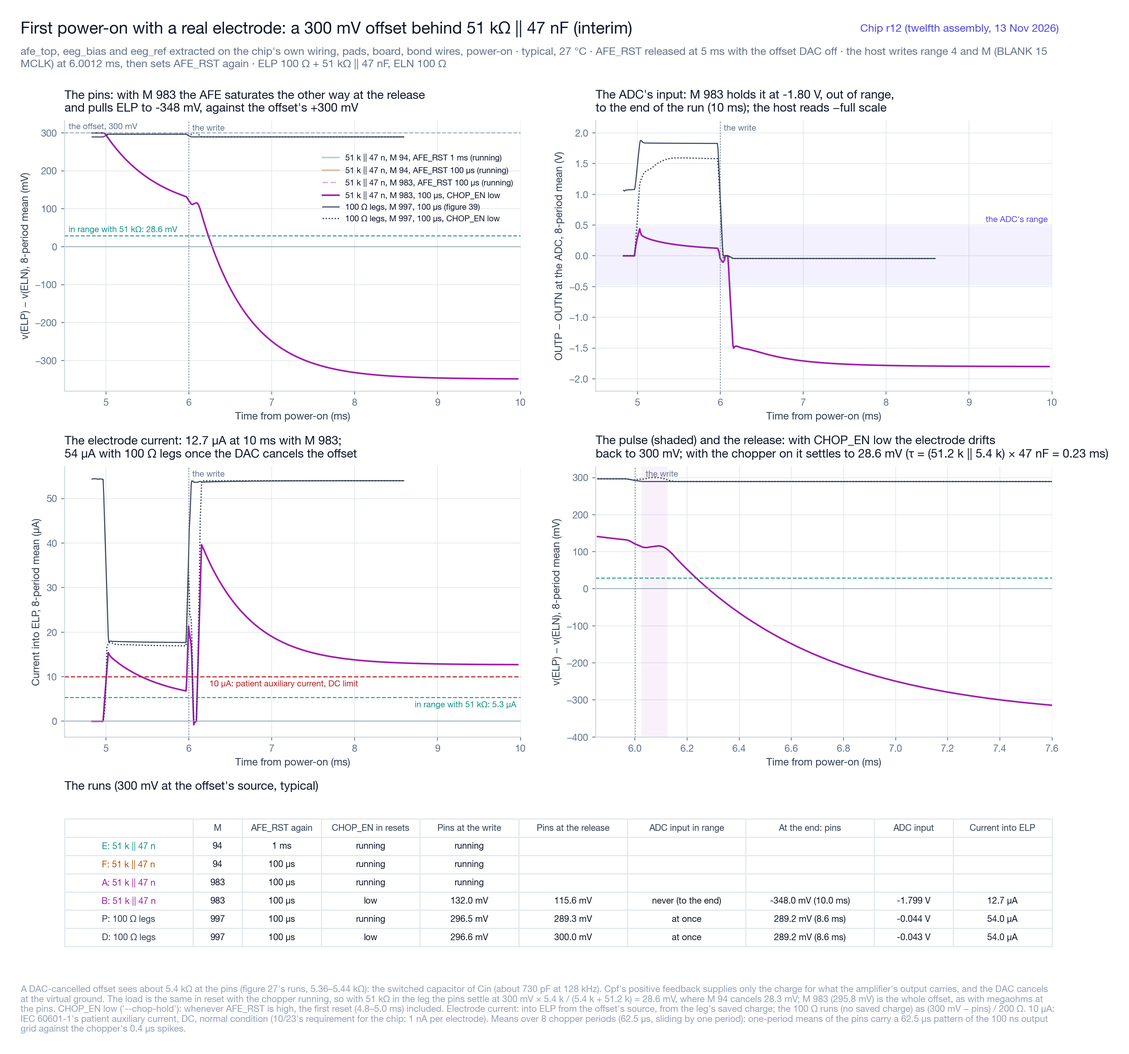
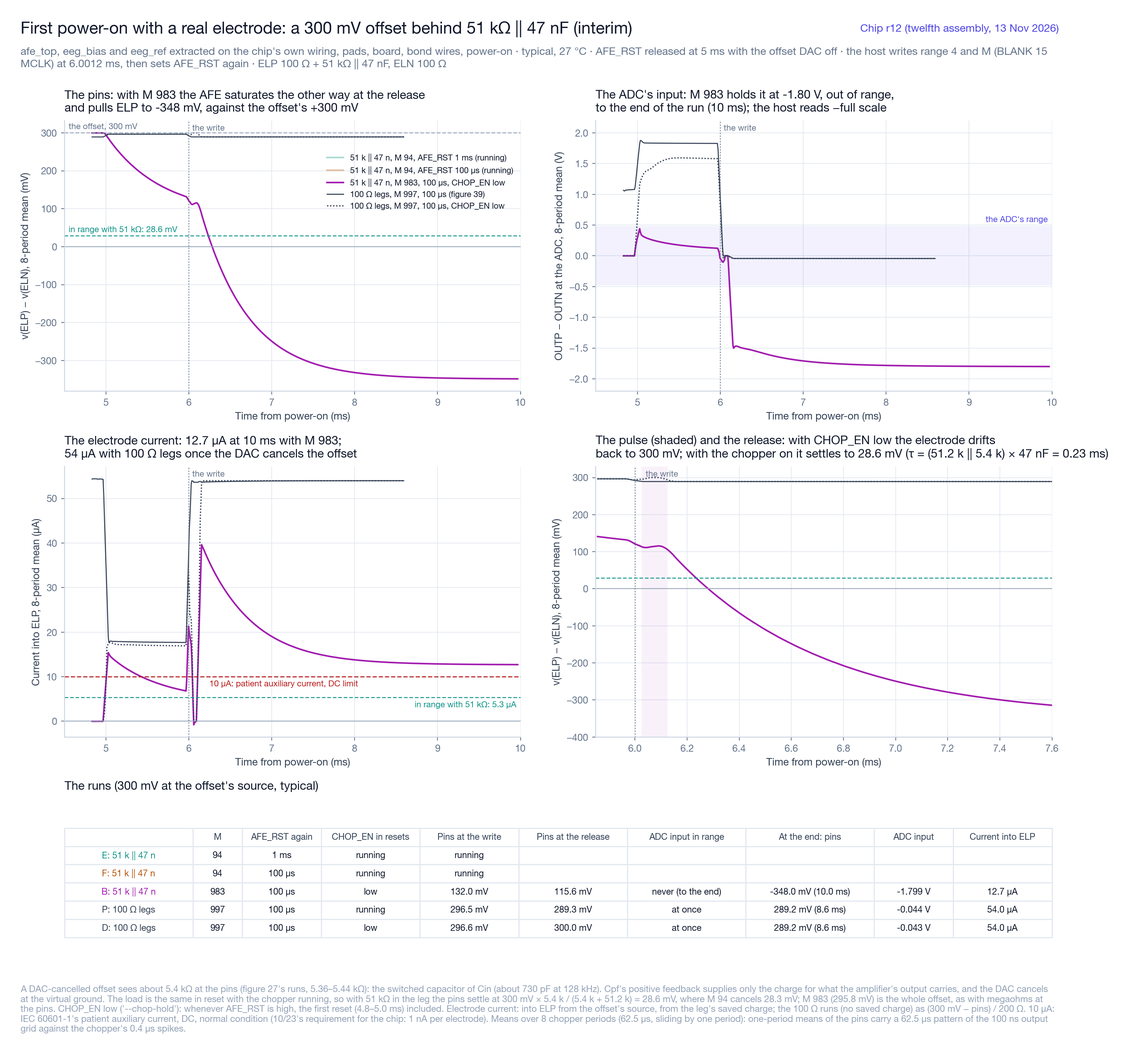
GF180 D5、D7、F2、F4（11/18）：今回 rev の構成決定。AVDD は調整できるレギュレータでダイごとに合わせると決めた（ユーザーの判断。ss のダイは 3.45 V、ほかは 3.40〜3.43 V。試験で正弦波の THD を見ながら BOOST_TRIM と一緒に決める。固定の 3.43 V ±0.5 % にはしない）。チップは r12 のままで、DAC で打ち消したオフセットの電流のためにも直さない（朝の返事「go」）。記録表 D5 を済みにした。typical の BOOST_TRIM 4/2 は、ダイごとに決めるときの出発点とした。電極込みの起動の E、F は、6 時

Changed region(s): [[0.0621, 0.779, 0.9322, 0.9037], [0.2797, 0.1246, 0.4661, 0.2181]]

diff --git a/first_tapeout_eeg/gf180/tapeout/viz/electrode_start_fig.py b/first_tapeout_eeg/gf180/tapeout/viz/electrode_start_fig.py
@@ -48,7 +48,6 @@ ZP = "_zp100+51k_47n"
 RUNS = [
     ("E", f"_m94_afe5ms_ib3{ZP}_sat6ms_rst1000us", "51 k || 47 n, M 94, AFE_RST 1 ms", TEAL, "-", 1.4),
     ("F", f"_m94_afe5ms_ib3{ZP}_sat6ms_rst100us", "51 k || 47 n, M 94, AFE_RST 100 µs", AMBER, "-", 1.4),
-    ("A", f"_m983_afe5ms_ib3{ZP}_sat6ms_rst100us", "51 k || 47 n, M 983, AFE_RST 100 µs", PLUM, (0, (4, 2)), 1.2),
     ("B", f"_m983_afe5ms_ib3{ZP}_sat6ms_rst100us_chophold", "51 k || 47 n, M 983, 100 µs, CHOP_EN low", PLUM, "-", 1.4),
     ("P", "_m997_afe5ms_ib3_sat6ms_rst100us", "100 Ω legs, M 997, 100 µs (figure 39)", INK2, "-", 0.9),
     ("D", "_m997_afe5ms_ib3_sat6ms_rst100us_chophold", "100 Ω legs, M 997, 100 µs, CHOP_EN low", INK2, (0, (1, 1.4)), 1.1),
@@ -125,7 +124,7 @@ def main():
     have = [k for k in runs if runs[k][0] is not None]
     S = {k: series(*runs[k]) for k in have}
     F = {k: facts(*runs[k], S[k]) for k in have}
-    interim = len(have) < len(RUNS) or ("A" in F and F["A"]["tend"] < 19.9e-3)
+    interim = len(have) < len(RUNS)
     for k in have:
         f = F[k]
         bk = "never" if f["back"] is None else f"{f['back'] * 1e3:.3f} ms"

diff --git a/first_tapeout_eeg/documentation/gf180_tapeout_tracker.md b/first_tapeout_eeg/documentation/gf180_tapeout_tracker.md
@@ -101,9 +101,9 @@
 | D2 | L1：AFE の周期雑音と歪み、ADC ブロックの特性。AFE は雑音（静止解析の高調波和）、静的な歪み、チョッパ動作の歪み（ブランキング込み）を評価済み。ADC はトランジスタ DAC2 のループで、1 kHz の歪みが 8 ms の分解能（約 −110 dBc）で見えないことを確認。長い実行（500 Hz、`gf180/tapeout/sim/adc_loop/analyze_tone.py`）で見えた HD5（−107〜−115 dBc）は、OTA を理想にしたデッキ（`make_deck.py --ota1 ideal`、16 ms）でも −111 dBc で、周りの bin も同じ高さだった。2.5 kHz 付近の量子化雑音の床で、歪みではない（10/22）。11/15：抽出した OTA の静的な伝達から、フルスケールでの OTA の歪みは −150 dBc より小さい（図 36）。量子化器は単体と全体を確認済み（B4）。ADC ブロックのコーナーは B2 | 11/14 | ✅ |
 | D3 | L2：較正済み行動モデルで受入行列（4 s／20 s、PVT、ミスマッチ）。10/28〜：抽出したブロックのモンテカルロ（30 種と角 5 つ、`adc_block_mc.py`）を行動モデル（`adc_beh_mc.py`、4 s、ループの遅れはトランジスタのループに合わせた 0.22 クロック）に入れ、ダイごとの SNDR を出している。11/14：r11 の抽出（RIN、DAC1、R21 が ppolyf_u。r12 も同じブロック）で回し直し、30 ダイで 114.8〜153.8 dB、角 11 通りで 122.0〜123.5 dB。どれも暴走せず、16.5 bit に要る 101.1 dB を 13.7 dB 以上上回る。OTA1 の利得のばらつきは、負荷（ppolyf_u）とバイアス（ppolyf_u_1k）が別々にばらつくので 0.09 → 0.46 dB に増えたが、最悪 69.26 dB でモデルの 68.7 dB より高い（`gf180_realistic_eval_20261028.md` の「ADC」、図 29） | 11/14 | ▶（量子化・DAC 誤差、工程とミスマッチは済み） |
 | D4 | L3：AFE＋ADC＋DAC セル＋量子化器の短窓トランジスタ E2E。10/22：`gf180/tapeout/sim/e2e/e2e_deck.py`（AFE とそのクロックドライバ、ADC ブロック、バイアス生成、基準電圧のフィルタ。typical）で 70 µs を回した。16 kHz・フルスケールの正弦波で、AFE の出力（チョッパ周期の平均）の利得 268.9（周期平均の sinc を除くと約 276）、ADC まで含めた全体 282、量子化の残差 0.031（DAC の段の単位、ADC 単体と同じ）、AVDD 27.2 mA。窓が 16 kHz の 0.8 周期しかないので、利得の精度は数 %。AFE_RST を解除した瞬間の入力が Cin に残る起動時の現象を見つけた（AFE の文書）。1 本 45〜75 分。10/24：寄生込みの E2E（`gf180/tapeout/pex/pex_e2e.py`、`gf180_pex_20261023.md` の「寄生込みの E2E」、図 `documentation/figures/gf180/r9_20261029/e2e_pex/gf180_e2e_pex_r9_*.png`）。AFE と ADC を最終のチップ（B7、B4 の直し込み）の抽出に差し替え、Ch-A を横切る OUTP／OUTN のチップの配線（74／70 fF、片側 35.6 Ω）も足して、回路図と比べた。AFE の利得 291.4（回路図 291.5、配線込み 290.9）、全体 301.2〜301.9、AVDD 27.2 mA、O2 −33〜+34 mV で同等。量子化の残差は寄生込みで約 2 倍（0.017 → 0.032、帯域の外）。リセットの解除のあとの相 A／B の不釣り合い（寄生込みで 19 mV、時定数 143 µs で抜ける）で、ADC の入力の瞬時値は最大 297 mV（フルスケール 300 mV の内側）。仕様を外れるものはない。10/25：4 回目のチップ（電極の DC 電流の直しのあと）の抽出で回し直した。AFE の利得 291.3（配線込み 290.8）、全体 301.5〜302.5、量子化の残差 0.028／0.021。相 A／B の不釣り合いは 19 → −2.6 mV（その大きさは入力チョッパのクロックの結合の WP／WN の差で決まっていた）、ADC の入力の瞬時値は ±287 mV で回路図と同じ。10/26：5 回目のチップ（WN の配線抵抗の直しのあと）でも回し直し、ほぼ同じ（相 A／B −2.7 mV、量子化の残差 0.026／0.021、ADC の入力 ±287 mV）。10/26 夜：6 回目のチップ（Magic DRC の直しのあと）でも回し直し、ほぼ同じ（AFE の利得 291.3、相 A／B −2.7 mV、量子化の残差 0.025／0.021、ADC の入力 ±287 mV）。10/30：9 回目のチップ（ADC は C1・C2 を 1.25 倍にした 7 回目の抽出、AFE は 6 回目と同じ）で回し直した（`runs/e2e_r7/`。d4 と sch も今の回路図で）：AFE の利得 291.3（配線込み 290.8）、全体 299.8〜300.4、量子化の残差 0.016／0.017（回路図 0.017。寄生込みで増えなくなった）、相 A／B −2.7 mV、ADC の入力 ±287 mV。11/9：10 回目のチップ（量子化器のラッチのグラウンドを AVSS につないだ ADC の抽出）で 4 通りとも回し直し、すべて同じ値（`runs/e2e_r10/`。抽出は基板を AVSS とするので、前からラッチは AVSS につながった形で計算されていた）。11/13：11 回目と 12 回目の抽出でも回した（`runs/e2e_r11/`、`runs/e2e_r12/`）。寄生込みは AFE の利得 291.4、全体 299.8／300.4、残差 0.019／0.019。チップの配線込み（pexchip。OUTP／OUTN が約 20 Ω 長くなった）は 290.6、299.9／299.5、0.018／0.014 で、r10 と同じ大きさ。残り：コーナー | 11/17 | ▶（typical ✅、寄生込み ✅） |
-| D5 | 今回 rev の構成決定レビュー。判断が要るもの：ADC のポリ抵抗のフリッカ（11/12、D7、図 33。PDK の大きさを今の電流でとると、フルスケールで 16.26 bit）。11/12 に直す案を調べた（`gf180_realistic_eval_20261028.md` の「RIN と DAC1 を ppolyf_u に替える案」、図 `plan_20261112`、設計はまだ変えていない）：1 単位（300 kΩ）を幅 0.8 µm の ppolyf_u 2 本の直列にすると、雑音 0.069 倍で、フルスケールでも 16.57 bit。抵抗の間を 0.4 µm にし、OTA1 と第 2 段を東へ 28.9 µm ずらせば ADC に収まる（外形は同じ）。角は今と同じ ±20 %、温度による変化は約 1/10。DAC1 は偶成分が要求の 1/90 以下のまま、出力の電位差への感度が 1.59 倍（ループの HD3 約 −129 dBc）、BRK の時間は同じ。R21 も替えるとよい。替えるなら ADC のレイアウト、DRC／LVS、precheck、PEX、DAC1 とループの確認、通し（約 54 時間）をやり直す（1 週間ほど）。替えないなら、フルスケールの 16.26 bit を予測として明記し、チップで測る。勧めは替えるほう（ENOB はフルスケールに近い正弦波で測るため）。**11/12 にユーザーが替えると決めた**（RIN と DAC1、勧めのとおり R21 も ppolyf_u に。11 回目のチップで作業する。走っている 10 回目の通しは r10 の抽出だけを読むので、止めずに進める）。11/12〜13：11 回目のチップで替えた（E4）。作ったままの抵抗でフリッカを計算し直し、フルスケールで 0.29 nVrms、16.57 bit（入力が小さいときと同じ。`runs/adc_flicker_r11`）。11/13：外から指摘のあった、敏感な網の下を通るクロックとデータの線を、ユーザーの判断で 12 回目で直した（E3、E4）。AFE の通路の覆いで電極の DC 電流が ±1.56 → ±1.71 nA になるが、ユーザーの判断で覆いは残した。**発注の候補は r12**（E8） | 11/18 | ▶ |
+| D5 | 今回 rev の構成決定レビュー。判断が要るもの：ADC のポリ抵抗のフリッカ（11/12、D7、図 33。PDK の大きさを今の電流でとると、フルスケールで 16.26 bit）。11/12 に直す案を調べた（`gf180_realistic_eval_20261028.md` の「RIN と DAC1 を ppolyf_u に替える案」、図 `plan_20261112`、設計はまだ変えていない）：1 単位（300 kΩ）を幅 0.8 µm の ppolyf_u 2 本の直列にすると、雑音 0.069 倍で、フルスケールでも 16.57 bit。抵抗の間を 0.4 µm にし、OTA1 と第 2 段を東へ 28.9 µm ずらせば ADC に収まる（外形は同じ）。角は今と同じ ±20 %、温度による変化は約 1/10。DAC1 は偶成分が要求の 1/90 以下のまま、出力の電位差への感度が 1.59 倍（ループの HD3 約 −129 dBc）、BRK の時間は同じ。R21 も替えるとよい。替えるなら ADC のレイアウト、DRC／LVS、precheck、PEX、DAC1 とループの確認、通し（約 54 時間）をやり直す（1 週間ほど）。替えないなら、フルスケールの 16.26 bit を予測として明記し、チップで測る。勧めは替えるほう（ENOB はフルスケールに近い正弦波で測るため）。**11/12 にユーザーが替えると決めた**（RIN と DAC1、勧めのとおり R21 も ppolyf_u に。11 回目のチップで作業する。走っている 10 回目の通しは r10 の抽出だけを読むので、止めずに進める）。11/12〜13：11 回目のチップで替えた（E4）。作ったままの抵抗でフリッカを計算し直し、フルスケールで 0.29 nVrms、16.57 bit（入力が小さいときと同じ。`runs/adc_flicker_r11`）。11/13：外から指摘のあった、敏感な網の下を通るクロックとデータの線を、ユーザーの判断で 12 回目で直した（E3、E4）。AFE の通路の覆いで電極の DC 電流が ±1.56 → ±1.71 nA になるが、ユーザーの判断で覆いは残した。**発注の候補は r12**（E8）。**11/18 の構成決定（ユーザーの判断）**：チップは r12 のまま。AVDD は調整できるレギュレータでダイごとに合わせる（F2）。DAC で打ち消したオフセットの電流のためにチップは直さず、限界として記録する（D7、勧めに対する返事「go」） | 11/18 | ✅ |
 | D6 | L4：重要ブロックの PEX 確認（チョッパの寄生結合、AFE 入力節点、積分器・DAC）。10/23：magic で寄生容量を抽出し（ネット名は KLayout の LVS の結果で回路図に対応づけ、MIM の基板容量は下の板へ補正）、入力の信号経路の配線抵抗は KLayout の R 抽出で求めた。AFE、ADC のループ、DAC1、OTA1 のチョッパを、回路図・抽出した素子だけ・寄生込みの 3 つで比べた（`gf180/tapeout/pex/`、`documentation/gf180_pex_20261023.md`）。寄生容量だけなら差は小さい（AFE の雑音 4.64 → 4.70 nVrms、利得 −0.2 %、HD3 −116 dBc、ADC のループの利得・CM・電流、積分器の整定は同等）。**仕様を外れるもの 4 つ**：① 入力の信号経路の配線抵抗が片側 76／119 Ω（コアの入力対のゲート配線 72／115、Cin の下の板の網 4.0、チョッパの EP／EN 0.35）で、AFE の雑音 19.1 nVrms、約 14.8 bit。② DAC1 の偶成分 0.47〜0.69 fC（要求 0.008 fC）で SNDR 約 70 dB。③ DC 経路のスイッチの CIB2 の結合の非対称で AFE の出力に 39 mV p-p のリップル。④ 量子化器の入力の結合の非対称で判定が平均 +2.4 LSB ずれる。原因と直し方（目標値つき）は文書の「直し方」。直したあと同じ流れで確かめる。10/24：4 件をレイアウトで直し（E3、E4）、チップを組み直して抽出と比較を回し直した（文書の「直したあとの確認」）。4 件とも仕様の内側に戻った：配線抵抗は片側 0.634／0.676 Ω（チップで測定。Cin の下の Metal3 の面は Tesselation）、DAC1 の偶成分 −0.0014 fC（123 dB）、リップル 3.62 mV p-p、量子化器の入力の結合はそろい、ループの残差 0.027。AFE の雑音は寄生込みで 4.81 nVrms、配線抵抗込みで 5.05 nVrms、総残差 6.05〜6.07 nVrms（16.45〜16.46 bit）で、16.50 bit に 0.04〜0.05 bit 足りない（片側 0.35 Ω まで下げるには AFE の配置の変更が要り、今回 rev はこの形）。抽出の補正を直した：magic が MIM の上の板に付ける、下の導体（Cin の下の Metal3 の面など）への容量を下の板へ移す（`pex.py` の `mim_shield`。AFE で WP–INP の見かけの 21.3 pF を消した）。**新しく 1 件が仕様を外れた**（直し方 1、2 の副作用）：INP と増幅器の出力 ONI／OPI の結合（P 側だけ 617／526 fF。コアの上端で INP を Cin のバスへつなぐ Metal5 の下を ONI／OPI の Metal4 が通る）で、フルスケールの HD2 −70 dBc（仕様 −111 dBc 以下）、利得 −2 % 前後。抽出からこの結合だけを除くと HD2 −114 dBc に戻る。E3 で直した（幹線を移して遮蔽、出力部の P 側を N 側の鏡映に。4 つの結合は 9 fF 以下、HD2〜HD5 −113.8／−117.2／−120.9／−137.7 dBc、利得は回路図に戻った）。リップルは 4.00 mV p-p（目標の境、クロックの線と出力の結合の P／N の差。帯域の外なので受け入れ）。チップを組み直した（E7）。2 回目までの歪みの確認は 2 kHz だけで、帯域内の低い周波数の HD2（DC 経路が 1 本で −87 dBc）は B7 の確認で見つかり、DC 経路を対称にして直した（0cb0fff4）。B7 と B4 の直しを入れた最終のチップ（3 回目、10/24）で確かめ直した：帯域内のフルスケールの HD2〜HD5 −132.7／−120.4／−160.9／−144.5 dBc、リップル 2.02 mV p-p、AFE の雑音 4.81 nVrms（配線抵抗込み 5.05）、配線抵抗は片側 0.634／0.676 Ω で変わらず。チップは DRC 違反なし、LVS 一致、穴埋めのあとの全 DRC も違反なし、precheck 通過。**10/25：信号がなくても電極に流れる DC 電流を調べて直した**（文書の「電極に流れる DC 電流（10/25）」）。3 回目の抽出の I_ELP −40.0／I_ELN +33.3 nA（`viz_data.py zin`）のうち、同相の −3.4 nA ずつは ngspice の GMIN による見かけ（抽出の入力 TG が PMOS M=1024・NMOS M=512 の 1 素子ずつで、接合ごとの GMIN が打ち消さない）で、実際は差動 ±36.6 nA。入力チョッパのゲートのクロックの結合が WP と WN で違い（チョッパの中のストラップの並びで WN だけが CIA／NCIA のピンの隣、ゲートの折り返しが WN の面の下、上端の WP の板、OFPH の西の線が WN の面の下）、交換器が電荷を一方の電極から他方へ運んでいた。電極の要求を 1 本あたり 1 nA 以下（1 MΩ で 1 mV）とし、1 MΩ で片側 37 mV（16.5 bit の前提の電極オフセット数 mV を外れる）なので不適合と判断して、E3 のレイアウトで直した：差動 ±1.65 nA（22 分の 1、ポンプに効く結合の差 −90.6 → +0.6 fF）、チップの配線を足して ±1.35 nA。残りはコアの INP／INN の寄生の非対称による（抽出で INP／INN を対称にすると差動 +0.5 nA）。今回 rev はこの値で受け入れる（1 MΩ で片側 1.65 mV、範囲 1 の内側）。雑音 4.811 nVrms、利得 297.89 は変わらない。副作用：チョッパの下の WN の面からゲートのレーンの通路を外したため、WN の W の配線抵抗が 0.339 → 0.570 Ω（通路を渡るのが Cin_N のバス 5 µm だけ）。配線抵抗込みの雑音 5.048 → 5.086 nVrms、総残差 6.05 → 6.08 nVrms（16.46 → 16.45 bit）。直すなら通路の上に WN の Metal5 だけを戻す（`gf180_pex_20261023.md`）。10/25 午後：可視化の図（`gf180_viz_20261024.md`）と、配線抵抗・歪み・寄生込みの E2E を 4 回目のチップで測り直した：帯域内の静的な HD2〜HD5 −165.8／−120.3／−148.9／−145.5 dBc、2 kHz −134.1／−118.2／−143.9／−141.6 dBc（仕様の内側）。10/25 夜：通路の上に WN の Metal5 を戻して直した（5 回目のチップ、E3）：WN の W 0.354 Ω、配線抵抗は両側 1.32 Ω（1.47 nVrms）、配線抵抗込みの雑音 5.049 nVrms、総残差 6.05〜6.07 nVrms（16.45〜16.46 bit、10/24 と同じ）。ポンプに効く結合の差 +0.61 → +0.80 fF、電極の DC 電流 ±1.56 nA、利得 297.89、リップル 2.37 mV p-p。10/26 朝：歪み、寄生込みの E2E、`viz_data.py` の AFE の組も 5 回目の抽出で回し直した（4 回目とほぼ同じ）：帯域内の静的な HD2〜HD5 −167.2／−120.3／−149.0／−145.5 dBc、2 kHz −134.2／−118.1／−143.0／−141.5 dBc、E2E の AFE の利得 291.3、相 A／B −2.7 mV、ADC の入力 ±287 mV。可視化の図 10、16〜24 も描き直した。10/26（6 回目、Magic DRC の直し：抵抗のコンタクトと MIM の Via4）：AFE と DAC1 を抽出し直して確かめた。雑音 4.811 nVrms（配線抵抗込み 5.050）、利得 297.89、リップル 2.37 mV p-p、電極の DC 電流 −1.55／+1.57 nA、DAC1 の偶成分 −0.00135／−0.00125 fC で 5 回目と同じ。配線抵抗の W は Cin の Via4 の分で 0.347／0.357 Ω（+3〜4 mΩ、`gf180_pex_20261023.md`）。10/26 夜：歪み（帯域内の静的な HD2〜HD5 −164.0／−120.3／−148.9／−146.0 dBc、2 kHz −133.9／−118.1／−141.4／−141.1 dBc）、寄生込みの E2E、`viz_data.py` の組、ADC のループ（利得 1.0040、残差 0.0318、判定が理想のしきい値と合うフレーム 91.2 %。3 回目の抽出からの差は 80 フレームの窓の揺れの範囲）、DAC1 の偶成分の行動モデル（123.0 dB）も 6 回目の抽出で回し直した。どれも 5 回目（ADC は 3 回目）とほぼ同じ。可視化の図は版ごとのフォルダ（`documentation/figures/gf180/r6_20261026/`）に全部描き直し、KLayout で描いたレイアウトの図 9 枚を足した。10/30：9 回目のチップ（今の版）の図を `documentation/figures/gf180/r9_20261029/` に全部描き直した。ADC は 7 回目の抽出（ループの利得 0.9974、残差 0.0202、判定 95.0 %、DAC1 の偶成分の行動モデル 123.0 dB）、AFE は 6 回目と同じ抽出、チップの配線を通す結果（雑音、入力経路の配線抵抗、起動、OUTP／OUTN の窓）は 9 回目で取り直した | 10/30 | ✅ |
-| D7 | 実際に近い条件での立ち上がりと性能（10/27〜、`gf180_realistic_eval_20261028.md`）。電源投入から（電源のランプ、`uic`）、RTL のリセットの順序、パッドリング、基板（仮定）とボンディングワイヤ、チップの配線（`pex_chipnets.py`：パッドセル、AVDD／AVSS の網とデカップリング、ブロックの間の配線と結合）、抽出した afe_top／eeg_bias／eeg_ref、モンテカルロ（工程と素子ごと。MIM と抵抗の素子ごとは仮の係数）、AVDD ±5 %（`gf180/tapeout/pex/afe_startup.py`）。雑音はチップの実際の動作点で測る（`afe_chip_noise.py`）。ADC を含めた電源投入からの通しは `e2e_startup.py`。10/28：雑音は上の予算の表のとおり（code 3 で 16.40 bit）。電極 0 V の立ち上がり（code 2、typical・±5 %・モンテカルロ 10）は、解除の 1 周期で −0.08〜−0.40 mV 振れ、7 µs 以内に −0.073 ± 0.002 mV（電極換算 −0.24 µV）に落ち着く。バイアスは電源投入から 0.91〜0.95 ms で 1 % 以内。通しのデッキは電源投入から AFE の解除後 50 µs まで回り、全体の利得 298.3。10/28〜29：AFE_IBIAS code 3 の書き込みを入れたモンテカルロ 30 と ±5 %、電極の DC オフセット、正弦波、VCM の容量 100 nF／1 µF、ADC 側を実際の条件で回した（ADC の C1・C2 を 1.25 倍にした）。10/31：9 回目のチップの配線で起動を回し直した。モンテカルロ 30 と ±5 % はすべて最後まで回り、解除後の出力は −0.075 ± 0.006 mV、0.1 mV まで 12 µs 以内、バイアスは 0.89〜0.97 ms で 1 % 以内で、6 回目と実質同じ。電極の DC オフセットは 300 mV まで打ち消せ、段の大きさは抽出のビットの重みで説明できる（どの範囲でも単調、残差の最大は範囲 1 で 153 µV、範囲 2 以上で 166 µV）。11/2：電源投入から CIC の出力までの通し（r6、r7、10 ms）が最後まで回った。有効な 3 サンプルはどれも RTL とビット一致し、電極から DATA までの利得は 306.6（r6 と r7 のサンプルの差は 7 LSB 以内）。11/8〜9：デジタル側（9 個の bi_24t、ブロックの電源電流、チップの DVDD／DVSS）を、9 回目の通しのチャンク 14 に入れて比べた（`digital_noise.py`）。リングの揺れは 18 → 59 mV p-p、ADC のデジタルの電源は 417 mV p-p。結合で AFE の出力にできる一定のずれは電極換算 0.21 nV で、DATA の約 1 LSB、計算の差（0.13 nV）と同じ大きさ。ADC の符号は 48 フレームとも一致した。この結合は MCLK に同期するので、一定のずれにしかならない。SPI の読み出しでも符号は一致し、周期ごとの差は 0.2 nV rms 以下。11/9：RAW の出力を動かす組（b3）も最後まで回った。AFE の入力の揺れは b1 の約 2 倍（同相 15.2 mV p-p、差動 16.7 µV p-p）になるが、出力の一定のずれは −0.11 nV、周期ごとの残りは 0.11 nV rms で、符号は 48 フレームとも一致した（図 31、`documentation/figures/gf180/r10_20261109/viz/`）。11/11：9 回目のチップの配線での通しも最後まで回った。有効な 3 サンプルはどれも RTL とビット一致し、7 回目より 0.064 % 大きい。差はすべて AFE の利得の差で、AFE の AVSS の持ち上がりが小さくなって AFE の電流が約 1 % 増えたため。ADC 側は 7 回目と同じだった。11/11：図 31 のデッキの ADC を 10 回目の抽出に替えて、5 本を回し直した（b2 は区切り点の近さで一度止まり、MISO を 0.125 ns ずらして回し直した）。5 本とも 48 フレームの ADC の符号が 7 回目の抽出のときと同じだった。結合の一定のずれは電極換算 0.30 nV で、計算の差（0.27 nV）と同じ大きさ。SPI の読み出しと RAW の出力でも、周期ごとの残りは 0.3 nV rms 以下。図 31 を描き直した。11/13：10 回目の通しも最後まで回った。有効な 3 サンプルはどれも RTL とビット一致し、9 回目との差は +4、−1、−3 LSB（1 本の中の続くサンプルどうしの違いと同じ大きさ）、電源と基準は 9 回目と同じ。11 回目の通しは、12 回目に替えたのでチャンク 4 で止めた。11/13：11 回目と 12 回目のチップの配線で雑音を回し直し、9 回目と 0.001 nVrms 以内で同じ（AFE_IBIAS 3 で typical 5.327 nVrms、モンテカルロ 30 の最悪 5.498 nVrms）。11/15：12 回目の起動のバッチは 50 本のうち 32 本が済み（モンテカルロ 18 本）、9 回目と同じ値（バイアス 0.91〜0.95 ms、解除から 0.1 mV まで 9 µs 以内、出力 −0.099 ± 0.006 mV、電極のオフセットの残差は出力で 0.06 mV 以内で同じ）。電源投入をプロセスの角 4 つ × AVDD ±5 % と電源の立ち上がり 10 µs〜100 ms で回し、20 本とも起動した（起動回路は AVDD 0.61〜1.03 V で切れる。図 37、`powerup_checks.py`）。基板への要求に、AVDD と外の基準を DVDD より先に上げないこと（アナログのパッドの ESD ダイオードが DVDD のリングへ向く）と、解除を電源が上がりきってから数えることを足した。11/16：12 回目の起動のバッチ 50 本と通し（71 時間）が終わった。通しの有効な 3 サンプルはどれも RTL とビット一致し、10 回目より −0.175 %（ADC の基準電圧 +0.057 %、AFE の利得 −0.116 %）。角での AFE の解除（図 38）：どの角でも動き出すが、BOOST_TRIM がリセット値 4/4 のままだと、フルスケールの HD3 が ss −97.6、sf −96.8、fs −106.1 dBc で要求（−111 dBc）に届かない。AVDD −5 % ではどのトリムでも届かない。AVDD を上げるとよくなり、3.40 V と角ごとのトリムで 5 つの角が届く。チップの窓は約 3.394〜3.456 V（図 41）。ADC は ADC の電源 3.39 V でも 3.245 V と同じに動く。ただし、typical を地図の 2/2 にすると、AVDD を上げた分だけ AFE の雑音が増える（3.45 V で 5.73 nVrms、予算で 16.47 bit。BTRIM_P を 4 以上にすれば平ら。図 42）。BTRIM_P 4 でも HD3 は届く：チップの HD3 は、typical 4/2 が 3.40 V で −117.0 dBc（2/2 の −116.8 と同じ）、リセット値の 4/4 が 3.40 V で −115.6、3.45 V で −116.4 dBc（要求に 4.6 dB 以上の余裕）。typical のトリムは 4/2 を勧める（雑音は平らで、予算は 3.45 V でも 16.56 bit。窓の上の端は ff 8/2 の約 3.460 V になる）。電極のオフセットで飽和した最初の電源投入（図 39）：書いても増幅器は出力チョッパの後ろで飽和したまま残るので、ホストは書くたびに AFE_RST を 100 µs 上げる（typical と ss で確かめた。ss では typical の M では残差が大きく、M の探索がもう 1 回要る）。パルスなしでも 300 mV は書いてから 2.82 ms で ADC の範囲に戻るが、11 ms でも出力は図 27 より入力換算約 −31 µV ずれ、入力のコモンモード（0.18 V 低い）と一緒に時定数約 47 ms で抜けていく（11/17、11 ms まで回した。パルスなら 0.5 µs で範囲に入り、2.5 ms 後に +0.7 µV）。ADC は過負荷から自分で戻る（最大 0.22 ms、図 40）。デジタル側（図 31）を 12 回目の通しのチャンク 14 で回し直した（4 本、23 時 44 分に済んだ）：48 フレームの ADC の符号はどの組でも一致し、結合の一定のずれは電極換算 0.02 nV（計算の差 0.25 nV より小さい）、SPI の読み出しは +0.42 nV、RAW の出力は +0.64 nV（周期ごとの残り 0.27 nV rms 以下）で、10 回目と同じ大きさ。リングと電源の揺れも 10 回目と同じ。図は 12 回目の 42 枚がそろい（39 は 11/17 に仕上げた）、11/17 に 43 を足した。11/17：PDK にない係数への余裕（図 43）：DAC1 の素子のばらつきを仮の係数の 8 倍にしても ENOB は変わらない（30 ダイの平均 16.60 bit）。入力抵抗の電圧係数は vc2 が約 300 ppm/V² まで 16.5 bit に届く。オフセット DAC は MIM のばらつき 4 倍まで単調で、運転中の窓の内側。チップを直す必要はない。11/17：同相の除去（CMRR）と電極の不釣り合い（`afe_startup.py` に体の同相と電極のインピーダンスを足し、`cmrr.py` で解析。図 44 は途中の版）。1 kHz で、釣り合った電極では 105.4 dB（チップ自身の分）、ELP に 51 kΩ ∥ 47 nF では 50.7 dB で、ほぼ全部が脚の電流が電極のインピーダンスを流れる分。脚 1 本から見た同相は 18.6 nS ∥ 138.5 pF（Cin を通る分 63.6 pF、入力チョッパのスイッチ 65.2 pF、パッドなど 9.7 pF。コンダクタンスのうち 6.1 nS は ngspice の既定の gmin の見かけ）。朝の見込み（−64 dB）はこの容量を落としていて、50 Hz では 54.3〜54.7 dB（100 mV pk の同相で電極換算 184〜193 µV pk）の見込み。11/18：基準（1 時 45 分に済んだ）を差し引いて当てはめ直しても同じ（105.4 dB、50.7 dB）。解除までは脚 1 本の同相が約 795 pF で、不釣り合いの 47 nF に残る電荷が時定数 2.4 ms で窓に入るので、当てはめに指数を足した。AFE_RST を上げているあいだは、チョッパが動いているとピンの差動が約 5.4 kΩ（Cin のスイッチト・キャパシタ。Cpf の打ち消しが働かない）になり、電極の DC オフセットが電極のコンデンサを充電する。51 kΩ ∥ 47 nF と 300 mV では、11/16 の手順（書くたびに 100 µs）で AFE が書いてから約 12 ms 飽和する見込み。図 39 は電極 100 Ω だったので出なかった。AFE_RST と一緒に CHOP_EN（同じ CONTROL）を下げる手順を、2 時 1 分から回して確かめている（`afe_saturation.py --zp --chop-hold`）。11/18：50 Hz の 2 本も 5 時 40 分ごろ 26 ms まで回った（1 周期）。51 kΩ ∥ 47 nF で 54.2 dB（100 mV pk の同相で電極換算 194 µV pk、フルスケールの 21 %。gmin の見かけを除くと 54.6 dB）、釣り合いで 151 dB で、見込みどおり。出力はシミュレーションのピンの差動と 0.04 % で合い（50 Hz の利得 297.58）、ほぼ全部が電極の側。脚のコンダクタンスのうち 12.2 nS は、Cin を通して見える入力のコモンモードの DC 経路（時定数 47 ms）。1 周期の当てはめでは、47 nF の指数をチップの側（脚の電流、体）にも入れると脚のアドミタンスが最大 30 % 動くので、出力とピンだけに入れた（当てはめを変えても 54.14〜54.26 dB）。CMRR のためにチップを直す必要はない。図 44 を仕上げた。11/18 の朝：DAC で打ち消した電極のオフセットには、解除のあとも約 5.4 kΩ がかかることが分かった（図 27 のランで 10〜300 mV とも 5.36〜5.44 kΩ。Cin のスイッチト・キャパシタで、Cpf は出力に出ている分しか補わない）。電極にオフセット / 5.4 kΩ（30 mV で 5.4 µA、300 mV で 54 µA）の DC 電流が流れ、10/23 の要求（電極 1 本 1 nA 以下）を DAC の 1 段（56 nA）から外れる。電極に抵抗 R_e があると、ピンに届くオフセットは 5.4 kΩ / (5.4 kΩ + R_e) 倍（51 kΩ で 300 → 28.4 mV）。未明の見立て（解除のあとは MΩ、書いてから約 12 ms 飽和）はこの点で誤り。D（電極 100 Ω、CHOP_EN を下げる）は、解除のあと入力のコモンモードがはじめから釣り合いにあり、図 27 より出力が電極換算 2.9 µV 釣り合いに近い。RTL のリセット値は変えないことを勧める。この DC 電流のために今回 rev でチップを直すことはせず、限界として記録する（11/18、朝の勧めに対する返事「go」）。B（51 kΩ ∥ 47 nF、M 983、CHOP_EN を下げる。6 時 21 分に 10 ms まで回った）：解除のときピンは 116 mV で、M 983（295.8 mV）に対して AFE は逆向きに飽和したまま残り、チップがピンを −349 mV へ引く（時定数 0.57 ms、10 ms で −348 mV、電極に 12.7 µA、ADC の入力 −1.80 V）。電極 100 Ω では同じ書き込みで解除と同時に範囲に入る。合わない M を残したまま待たないこと、パルスのあいだもチョッパを動かすことを、手順に書く（図 45、途中の版）。E、F（M 94、パルス 1 ms と 100 µs）は 6 時 12 分から、A（M 983、チョッパを動かす、20 ms まで）は 2 時 1 分から回している。残り：11/18 の構成決定（AVDD とトリム）、実際のレギュレータの PSRR | 11/18 | ▶ |
+| D7 | 実際に近い条件での立ち上がりと性能（10/27〜、`gf180_realistic_eval_20261028.md`）。電源投入から（電源のランプ、`uic`）、RTL のリセットの順序、パッドリング、基板（仮定）とボンディングワイヤ、チップの配線（`pex_chipnets.py`：パッドセル、AVDD／AVSS の網とデカップリング、ブロックの間の配線と結合）、抽出した afe_top／eeg_bias／eeg_ref、モンテカルロ（工程と素子ごと。MIM と抵抗の素子ごとは仮の係数）、AVDD ±5 %（`gf180/tapeout/pex/afe_startup.py`）。雑音はチップの実際の動作点で測る（`afe_chip_noise.py`）。ADC を含めた電源投入からの通しは `e2e_startup.py`。10/28：雑音は上の予算の表のとおり（code 3 で 16.40 bit）。電極 0 V の立ち上がり（code 2、typical・±5 %・モンテカルロ 10）は、解除の 1 周期で −0.08〜−0.40 mV 振れ、7 µs 以内に −0.073 ± 0.002 mV（電極換算 −0.24 µV）に落ち着く。バイアスは電源投入から 0.91〜0.95 ms で 1 % 以内。通しのデッキは電源投入から AFE の解除後 50 µs まで回り、全体の利得 298.3。10/28〜29：AFE_IBIAS code 3 の書き込みを入れたモンテカルロ 30 と ±5 %、電極の DC オフセット、正弦波、VCM の容量 100 nF／1 µF、ADC 側を実際の条件で回した（ADC の C1・C2 を 1.25 倍にした）。10/31：9 回目のチップの配線で起動を回し直した。モンテカルロ 30 と ±5 % はすべて最後まで回り、解除後の出力は −0.075 ± 0.006 mV、0.1 mV まで 12 µs 以内、バイアスは 0.89〜0.97 ms で 1 % 以内で、6 回目と実質同じ。電極の DC オフセットは 300 mV まで打ち消せ、段の大きさは抽出のビットの重みで説明できる（どの範囲でも単調、残差の最大は範囲 1 で 153 µV、範囲 2 以上で 166 µV）。11/2：電源投入から CIC の出力までの通し（r6、r7、10 ms）が最後まで回った。有効な 3 サンプルはどれも RTL とビット一致し、電極から DATA までの利得は 306.6（r6 と r7 のサンプルの差は 7 LSB 以内）。11/8〜9：デジタル側（9 個の bi_24t、ブロックの電源電流、チップの DVDD／DVSS）を、9 回目の通しのチャンク 14 に入れて比べた（`digital_noise.py`）。リングの揺れは 18 → 59 mV p-p、ADC のデジタルの電源は 417 mV p-p。結合で AFE の出力にできる一定のずれは電極換算 0.21 nV で、DATA の約 1 LSB、計算の差（0.13 nV）と同じ大きさ。ADC の符号は 48 フレームとも一致した。この結合は MCLK に同期するので、一定のずれにしかならない。SPI の読み出しでも符号は一致し、周期ごとの差は 0.2 nV rms 以下。11/9：RAW の出力を動かす組（b3）も最後まで回った。AFE の入力の揺れは b1 の約 2 倍（同相 15.2 mV p-p、差動 16.7 µV p-p）になるが、出力の一定のずれは −0.11 nV、周期ごとの残りは 0.11 nV rms で、符号は 48 フレームとも一致した（図 31、`documentation/figures/gf180/r10_20261109/viz/`）。11/11：9 回目のチップの配線での通しも最後まで回った。有効な 3 サンプルはどれも RTL とビット一致し、7 回目より 0.064 % 大きい。差はすべて AFE の利得の差で、AFE の AVSS の持ち上がりが小さくなって AFE の電流が約 1 % 増えたため。ADC 側は 7 回目と同じだった。11/11：図 31 のデッキの ADC を 10 回目の抽出に替えて、5 本を回し直した（b2 は区切り点の近さで一度止まり、MISO を 0.125 ns ずらして回し直した）。5 本とも 48 フレームの ADC の符号が 7 回目の抽出のときと同じだった。結合の一定のずれは電極換算 0.30 nV で、計算の差（0.27 nV）と同じ大きさ。SPI の読み出しと RAW の出力でも、周期ごとの残りは 0.3 nV rms 以下。図 31 を描き直した。11/13：10 回目の通しも最後まで回った。有効な 3 サンプルはどれも RTL とビット一致し、9 回目との差は +4、−1、−3 LSB（1 本の中の続くサンプルどうしの違いと同じ大きさ）、電源と基準は 9 回目と同じ。11 回目の通しは、12 回目に替えたのでチャンク 4 で止めた。11/13：11 回目と 12 回目のチップの配線で雑音を回し直し、9 回目と 0.001 nVrms 以内で同じ（AFE_IBIAS 3 で typical 5.327 nVrms、モンテカルロ 30 の最悪 5.498 nVrms）。11/15：12 回目の起動のバッチは 50 本のうち 32 本が済み（モンテカルロ 18 本）、9 回目と同じ値（バイアス 0.91〜0.95 ms、解除から 0.1 mV まで 9 µs 以内、出力 −0.099 ± 0.006 mV、電極のオフセットの残差は出力で 0.06 mV 以内で同じ）。電源投入をプロセスの角 4 つ × AVDD ±5 % と電源の立ち上がり 10 µs〜100 ms で回し、20 本とも起動した（起動回路は AVDD 0.61〜1.03 V で切れる。図 37、`powerup_checks.py`）。基板への要求に、AVDD と外の基準を DVDD より先に上げないこと（アナログのパッドの ESD ダイオードが DVDD のリングへ向く）と、解除を電源が上がりきってから数えることを足した。11/16：12 回目の起動のバッチ 50 本と通し（71 時間）が終わった。通しの有効な 3 サンプルはどれも RTL とビット一致し、10 回目より −0.175 %（ADC の基準電圧 +0.057 %、AFE の利得 −0.116 %）。角での AFE の解除（図 38）：どの角でも動き出すが、BOOST_TRIM がリセット値 4/4 のままだと、フルスケールの HD3 が ss −97.6、sf −96.8、fs −106.1 dBc で要求（−111 dBc）に届かない。AVDD −5 % ではどのトリムでも届かない。AVDD を上げるとよくなり、3.40 V と角ごとのトリムで 5 つの角が届く。チップの窓は約 3.394〜3.456 V（図 41）。ADC は ADC の電源 3.39 V でも 3.245 V と同じに動く。ただし、typical を地図の 2/2 にすると、AVDD を上げた分だけ AFE の雑音が増える（3.45 V で 5.73 nVrms、予算で 16.47 bit。BTRIM_P を 4 以上にすれば平ら。図 42）。BTRIM_P 4 でも HD3 は届く：チップの HD3 は、typical 4/2 が 3.40 V で −117.0 dBc（2/2 の −116.8 と同じ）、リセット値の 4/4 が 3.40 V で −115.6、3.45 V で −116.4 dBc（要求に 4.6 dB 以上の余裕）。typical のトリムは 4/2 を勧める（雑音は平らで、予算は 3.45 V でも 16.56 bit。窓の上の端は ff 8/2 の約 3.460 V になる）。電極のオフセットで飽和した最初の電源投入（図 39）：書いても増幅器は出力チョッパの後ろで飽和したまま残るので、ホストは書くたびに AFE_RST を 100 µs 上げる（typical と ss で確かめた。ss では typical の M では残差が大きく、M の探索がもう 1 回要る）。パルスなしでも 300 mV は書いてから 2.82 ms で ADC の範囲に戻るが、11 ms でも出力は図 27 より入力換算約 −31 µV ずれ、入力のコモンモード（0.18 V 低い）と一緒に時定数約 47 ms で抜けていく（11/17、11 ms まで回した。パルスなら 0.5 µs で範囲に入り、2.5 ms 後に +0.7 µV）。ADC は過負荷から自分で戻る（最大 0.22 ms、図 40）。デジタル側（図 31）を 12 回目の通しのチャンク 14 で回し直した（4 本、23 時 44 分に済んだ）：48 フレームの ADC の符号はどの組でも一致し、結合の一定のずれは電極換算 0.02 nV（計算の差 0.25 nV より小さい）、SPI の読み出しは +0.42 nV、RAW の出力は +0.64 nV（周期ごとの残り 0.27 nV rms 以下）で、10 回目と同じ大きさ。リングと電源の揺れも 10 回目と同じ。図は 12 回目の 42 枚がそろい（39 は 11/17 に仕上げた）、11/17 に 43 を足した。11/17：PDK にない係数への余裕（図 43）：DAC1 の素子のばらつきを仮の係数の 8 倍にしても ENOB は変わらない（30 ダイの平均 16.60 bit）。入力抵抗の電圧係数は vc2 が約 300 ppm/V² まで 16.5 bit に届く。オフセット DAC は MIM のばらつき 4 倍まで単調で、運転中の窓の内側。チップを直す必要はない。11/17：同相の除去（CMRR）と電極の不釣り合い（`afe_startup.py` に体の同相と電極のインピーダンスを足し、`cmrr.py` で解析。図 44 は途中の版）。1 kHz で、釣り合った電極では 105.4 dB（チップ自身の分）、ELP に 51 kΩ ∥ 47 nF では 50.7 dB で、ほぼ全部が脚の電流が電極のインピーダンスを流れる分。脚 1 本から見た同相は 18.6 nS ∥ 138.5 pF（Cin を通る分 63.6 pF、入力チョッパのスイッチ 65.2 pF、パッドなど 9.7 pF。コンダクタンスのうち 6.1 nS は ngspice の既定の gmin の見かけ）。朝の見込み（−64 dB）はこの容量を落としていて、50 Hz では 54.3〜54.7 dB（100 mV pk の同相で電極換算 184〜193 µV pk）の見込み。11/18：基準（1 時 45 分に済んだ）を差し引いて当てはめ直しても同じ（105.4 dB、50.7 dB）。解除までは脚 1 本の同相が約 795 pF で、不釣り合いの 47 nF に残る電荷が時定数 2.4 ms で窓に入るので、当てはめに指数を足した。AFE_RST を上げているあいだは、チョッパが動いているとピンの差動が約 5.4 kΩ（Cin のスイッチト・キャパシタ。Cpf の打ち消しが働かない）になり、電極の DC オフセットが電極のコンデンサを充電する。51 kΩ ∥ 47 nF と 300 mV では、11/16 の手順（書くたびに 100 µs）で AFE が書いてから約 12 ms 飽和する見込み。図 39 は電極 100 Ω だったので出なかった。AFE_RST と一緒に CHOP_EN（同じ CONTROL）を下げる手順を、2 時 1 分から回して確かめている（`afe_saturation.py --zp --chop-hold`）。11/18：50 Hz の 2 本も 5 時 40 分ごろ 26 ms まで回った（1 周期）。51 kΩ ∥ 47 nF で 54.2 dB（100 mV pk の同相で電極換算 194 µV pk、フルスケールの 21 %。gmin の見かけを除くと 54.6 dB）、釣り合いで 151 dB で、見込みどおり。出力はシミュレーションのピンの差動と 0.04 % で合い（50 Hz の利得 297.58）、ほぼ全部が電極の側。脚のコンダクタンスのうち 12.2 nS は、Cin を通して見える入力のコモンモードの DC 経路（時定数 47 ms）。1 周期の当てはめでは、47 nF の指数をチップの側（脚の電流、体）にも入れると脚のアドミタンスが最大 30 % 動くので、出力とピンだけに入れた（当てはめを変えても 54.14〜54.26 dB）。CMRR のためにチップを直す必要はない。図 44 を仕上げた。11/18 の朝：DAC で打ち消した電極のオフセットには、解除のあとも約 5.4 kΩ がかかることが分かった（図 27 のランで 10〜300 mV とも 5.36〜5.44 kΩ。Cin のスイッチト・キャパシタで、Cpf は出力に出ている分しか補わない）。電極にオフセット / 5.4 kΩ（30 mV で 5.4 µA、300 mV で 54 µA）の DC 電流が流れ、10/23 の要求（電極 1 本 1 nA 以下）を DAC の 1 段（56 nA）から外れる。電極に抵抗 R_e があると、ピンに届くオフセットは 5.4 kΩ / (5.4 kΩ + R_e) 倍（51 kΩ で 300 → 28.4 mV）。未明の見立て（解除のあとは MΩ、書いてから約 12 ms 飽和）はこの点で誤り。D（電極 100 Ω、CHOP_EN を下げる）は、解除のあと入力のコモンモードがはじめから釣り合いにあり、図 27 より出力が電極換算 2.9 µV 釣り合いに近い。RTL のリセット値は変えないことを勧める。この DC 電流のために今回 rev でチップを直すことはせず、限界として記録する（11/18、朝の勧めに対する返事「go」）。B（51 kΩ ∥ 47 nF、M 983、CHOP_EN を下げる。6 時 21 分に 10 ms まで回った）：解除のときピンは 116 mV で、M 983（295.8 mV）に対して AFE は逆向きに飽和したまま残り、チップがピンを −349 mV へ引く（時定数 0.57 ms、10 ms で −348 mV、電極に 12.7 µA、ADC の入力 −1.80 V）。電極 100 Ω では同じ書き込みで解除と同時に範囲に入る。合わない M を残したまま待たないこと、パルスのあいだもチョッパを動かすことを、手順に書く（図 45、途中の版）。E、F（M 94、パルス 1 ms と 100 µs）は 8 時 47 分から回し直している（6 時 12 分に始めたものは、8 時 40 分ごろ Claude Code のセッションの終わりで止まった。A は B から読めるので回し直さない）。11/18 の構成決定で、AVDD はダイごとに合わせると決めた（ユーザーの判断。トリムも試験でダイごとに、F2、F4）。残り：実際のレギュレータの PSRR | 11/18 | ▶ |
 
 ## E. レイアウトと統合
 
@@ -123,9 +123,9 @@
 | # | 項目 | 期限 |
 |---|---|---|
 | F1 | Half Height（1x0.5）スロットの購入 | 12/9 |
-| F2 | 基板側の条件の確認：DVDD 3.3 V、AVDD を低雑音 LDO からアナログパッドへ、VREF の供給、32.768 MHz の発振器。11/9 に足した条件：(1) 電源を入れる順序。DVDD は、AVDD、VREFP／VREFN、発振器と同時か先に上げ、切るときは後に切る。アナログのパッド（asig_5p0）の ESD ダイオードはどれも IO リングの DVDD／DVSS につながり、これらが DVDD より約 0.5 V 以上高いと DVDD へ電流が流れる（電源投入の計算はどれも同時に上げている）。(2) VREFP > VREFN（ADC のループが負帰還になる前提）。11/16 に足した案（11/18 に決める）：(3) AVDD は調整できるレギュレータで約 3.43 V にし、ダイごとに合わせる（ss のダイは 3.45 V）。固定なら 3.43 V ±0.5 %。3.3 V では、角によってフルスケールの HD3 が要求に届かない（`gf180_realistic_eval_20261028.md` の窓の節、図 41、42） | 10/31 |
+| F2 | 基板側の条件の確認：DVDD 3.3 V、AVDD を低雑音 LDO からアナログパッドへ、VREF の供給、32.768 MHz の発振器。11/9 に足した条件：(1) 電源を入れる順序。DVDD は、AVDD、VREFP／VREFN、発振器と同時か先に上げ、切るときは後に切る。アナログのパッド（asig_5p0）の ESD ダイオードはどれも IO リングの DVDD／DVSS につながり、これらが DVDD より約 0.5 V 以上高いと DVDD へ電流が流れる（電源投入の計算はどれも同時に上げている）。(2) VREFP > VREFN（ADC のループが負帰還になる前提）。11/16 に足した案を 11/18 に決めた（ユーザーの判断）：(3) AVDD は調整できるレギュレータにし、ダイごとに合わせる（ss のダイは 3.45 V、ほかは 3.40〜3.43 V。試験で正弦波の THD を見ながら BOOST_TRIM と一緒に決める。固定の 3.43 V ±0.5 % にはしない）。3.3 V では、角によってフルスケールの HD3 が要求に届かない（`gf180_realistic_eval_20261028.md` の窓の節、図 41、42） | 10/31 |
 | F3 | 独立環境（Codex）の扱い：設計の変更は止めて、こちらから切り出す解析だけを頼む形にする。10/22 から独立環境は動かしておらず、取り込んだ版（`gf180/tapeout/import_20261021/`）を起点にしている | 早め |
-| F4 | ファームウェア：RESET_N を解除したあと、AFE_RST を下ろす前に AFE_IBIAS を 3 に書く（10/28 決定。AFE のテールの AVSS がバイアス回路の AVSS より 25 mV 高く、リセット値の 2 では AFE の電流が約 19 % 少ない。D7）。書き込みは ANA_TRIM = 0x38：AFE_IBIAS は ANA_TRIM[5:4] で、[3:0] の CPF_TRIM（リセット値 8）と同じバイトをまとめて書くため、0x30 では CPF_TRIM が 0 になる（CPF_TRIM を変えるときは [3:0] をその値に）。ほかに守る条件（11/9、デジタルとアナログの境目の確認から。`gf180_verification_coverage_20261029.md`）：(1) CHOP_DLY は 0 のまま。ブランキングは CHOP_OUT の縁について動くので、1 以上では入力チョッパの縁が隠れず、DC 経路がその過渡を拾う（`gf180_afe_clk_20261022.md` の「最適な CHOP_DLY を決める」は取り下げ）。(2) BLANK_LEN は 1 以上（既定 7、オフセット DAC を使うときは 15。0 では出力チョッパの CDA と CDB が縁で一瞬重なる）。オフセット DAC を使うときに 15 にするのは自動ではない。(3) CHOP_EN = 0 と ADC_ZERO = 1 の間は AFE の入力の DC 経路が止まる。戻したあとは AFE_RST を通すか、落ち着くのを待つ。(4) オフセット DAC の大きさ M は、選んだ範囲の上限を超えて書かない（上のビットは切り捨てられ、丸めない）。(5) オフセット DAC を書くたびに、20 µs 以上あけて AFE_RST を 100 µs 上げ、下ろしてから 0.22 ms 待ち、FILTER_CLEAR のあと SETTLING が終わってから読む（11/16、`gf180_electrode_dc_20261022.md` の「使い方」。D7）。11/18：DAC で打ち消したオフセットには、リセット中も解除のあとも、ピンから約 5.4 kΩ がかかる（電極にオフセット / 5.4 kΩ の DC 電流）。電極に抵抗とコンデンサがあると、パルスのあいだもチョッパを動かしたまま、電極が落ち着くまで（51 kΩ ∥ 47 nF で約 1 ms）伸ばすのがよい見込み（CHOP_EN を下げると負荷が変わって過渡が出る）。パルスの長さは E、F のランで決める（D7）。B（51 kΩ ∥ 47 nF、M 983、CHOP_EN を下げる）では、合わない M で AFE が逆向きに飽和したまま残り、チップが電極を逆へ引いた（12.7 µA）。探索では、合わない M を残したまま待たない（図 45）。(6) BOOST_TRIM はダイごとに、試験で THD と雑音から決めた値を書く（11/16、11/18 に決める。3.40 V の目安は typical 4/2、ss 2/2、ff 8/2、sf 8/2、fs 2/2。BTRIM_P と BTRIM_N を入れ違えると、ff では入力対が飽和から外れる。D7） | 評価の前 |
+| F4 | ファームウェア：RESET_N を解除したあと、AFE_RST を下ろす前に AFE_IBIAS を 3 に書く（10/28 決定。AFE のテールの AVSS がバイアス回路の AVSS より 25 mV 高く、リセット値の 2 では AFE の電流が約 19 % 少ない。D7）。書き込みは ANA_TRIM = 0x38：AFE_IBIAS は ANA_TRIM[5:4] で、[3:0] の CPF_TRIM（リセット値 8）と同じバイトをまとめて書くため、0x30 では CPF_TRIM が 0 になる（CPF_TRIM を変えるときは [3:0] をその値に）。ほかに守る条件（11/9、デジタルとアナログの境目の確認から。`gf180_verification_coverage_20261029.md`）：(1) CHOP_DLY は 0 のまま。ブランキングは CHOP_OUT の縁について動くので、1 以上では入力チョッパの縁が隠れず、DC 経路がその過渡を拾う（`gf180_afe_clk_20261022.md` の「最適な CHOP_DLY を決める」は取り下げ）。(2) BLANK_LEN は 1 以上（既定 7、オフセット DAC を使うときは 15。0 では出力チョッパの CDA と CDB が縁で一瞬重なる）。オフセット DAC を使うときに 15 にするのは自動ではない。(3) CHOP_EN = 0 と ADC_ZERO = 1 の間は AFE の入力の DC 経路が止まる。戻したあとは AFE_RST を通すか、落ち着くのを待つ。(4) オフセット DAC の大きさ M は、選んだ範囲の上限を超えて書かない（上のビットは切り捨てられ、丸めない）。(5) オフセット DAC を書くたびに、20 µs 以上あけて AFE_RST を 100 µs 上げ、下ろしてから 0.22 ms 待ち、FILTER_CLEAR のあと SETTLING が終わってから読む（11/16、`gf180_electrode_dc_20261022.md` の「使い方」。D7）。11/18：DAC で打ち消したオフセットには、リセット中も解除のあとも、ピンから約 5.4 kΩ がかかる（電極にオフセット / 5.4 kΩ の DC 電流）。電極に抵抗とコンデンサがあると、パルスのあいだもチョッパを動かしたまま、電極が落ち着くまで（51 kΩ ∥ 47 nF で約 1 ms）伸ばすのがよい見込み（CHOP_EN を下げると負荷が変わって過渡が出る）。パルスの長さは E、F のランで決める（D7）。B（51 kΩ ∥ 47 nF、M 983、CHOP_EN を下げる）では、合わない M で AFE が逆向きに飽和したまま残り、チップが電極を逆へ引いた（12.7 µA）。探索では、合わない M を残したまま待たない（図 45）。(6) BOOST_TRIM はダイごとに、試験で THD と雑音から決めた値を書く（11/16。11/18 に AVDD もダイごとに合わせると決めたので、AVDD と一緒に決める。3.40 V の目安は typical 4/2、ss 2/2、ff 8/2、sf 8/2、fs 2/2。BTRIM_P と BTRIM_N を入れ違えると、ff では入力対が飽和から外れる。D7） | 評価の前 |
 
 ## 主なリスク
 
@@ -139,7 +139,7 @@
 | （解決）AFE の AVSS の電流密度（10/29）：AFE の東の 2 本のレールから Ch-A の AVSS の幹線への Metal4 の渡り 2 本（幅 22.9／14.0 µm、上限は合わせて 24.7 mA）に AFE の 21.5 mA が流れ、typical で上限の 87 %、+3σ で 101 % | 10/29 に 9 回目のチップで同じ大きさの Metal3 を下に足した（ユーザーの判断）：Metal4 46 %、Metal3 42 %（+3σ で 53／48 %）。AVSS のパッドから AFE までの抵抗も 1.290 → 1.215 Ω |
 | AFE の雑音（予算 5.0 nVrms。回路図 4.59、ss コーナー 5.06。寄生込みは 4.81、ブランキングの折り返し込みで約 4.86。コーナーは回路図でしか見ていない。10/28：チップの実際の動作点では 5.60（code 2）／5.35 nVrms（code 3、モンテカルロ 30、入力経路込み）） | AFE_IBIAS で戻す（10/28：ファームウェアで code 3、F4）。届かない場合も提出は止めず、予測値として明記する |
 | （ファームウェアで対策、10/28）バイアス回路と AFE のグラウンドのずれ（D7：VBN はバイアス回路の AVSS に対して作られ、AFE のテールの AVSS は 25 mV 高い。AFE の電流 −19 %、雑音 +11 %） | ファームウェアで AFE_IBIAS = 3（F4）。レイアウトでバイアスの配り方を直しても code 3 と比べて約 0.02 bit。以前の 16.45 bit との差の大半はパッドセルの抵抗（約 −0.06 bit）で、パッドリングを変えない限り直らない |
-| AFE の電圧の余裕（入力対とカスコードが入力対 1 個分の VGS を分け合い、コーナーで分け目が 2 倍で動く） | BOOST_TRIM でコーナーごとに合わせる。ff・85 °C は AFE_IBIAS を下げても余裕 0.07 V。次の rev では、差動のブースト段か 5 V 素子で構造から直す。11/16：PMOS のカスコードのブースタが AVDD を基準にするので、HD3 は AVDD に付いてくる。3.3 V のリセット値では ss、sf、fs が要求に届かず、−5 % ではどの角も届かない。今回の rev は回路を変えず、基板の AVDD を約 3.43 V に上げ（ダイごとに合わせるのを勧める）、トリムを角ごとに合わせる案（11/18 に決める）。窓は約 3.394〜3.456 V しかない。AVDD を上げると PMOS 入力対の余裕が減って雑音が増える（typical 2/2）ので、トリムは THD と雑音の両方で選ぶ。見たのは 27 °C だけ |
+| AFE の電圧の余裕（入力対とカスコードが入力対 1 個分の VGS を分け合い、コーナーで分け目が 2 倍で動く） | BOOST_TRIM でコーナーごとに合わせる。ff・85 °C は AFE_IBIAS を下げても余裕 0.07 V。次の rev では、差動のブースト段か 5 V 素子で構造から直す。11/16：PMOS のカスコードのブースタが AVDD を基準にするので、HD3 は AVDD に付いてくる。3.3 V のリセット値では ss、sf、fs が要求に届かず、−5 % ではどの角も届かない。今回の rev は回路を変えず、基板の AVDD を約 3.43 V に上げてダイごとに合わせ、トリムも試験でダイごとに合わせる（11/18 に決めた）。窓は約 3.394〜3.456 V しかない。AVDD を上げると PMOS 入力対の余裕が減って雑音が増える（typical 2/2）ので、トリムは THD と雑音の両方で選ぶ。見たのは 27 °C だけ |
 | （解決）ADC のレイアウトの結合の非対称（PEX、10/23：DAC1 の偶成分 0.47〜0.69 fC で SNDR 約 70 dB、量子化器の判定 +2.4 LSB） | 10/23 に E4 で直した：DAC1 の偶成分 −0.0014 fC（要求の約 1/6、123 dB）、量子化器の入力の結合をそろえた（ループの残差 0.0267、O2 は範囲の内側）。10/24 にラッチも鏡像に描き直した（OA − OB −0.003 fF、ループの判定は理想のしきい値と 93.8 %、共通のずれ −0.1 mV。B4） |
 | （ほぼ解決）入力の信号経路の配線抵抗（PEX、10/23：両側 195 Ω、AFE の雑音 19 nVrms、約 14.8 bit） | 10/24 に E3 で直した：チップで両側 1.31 Ω（片側 0.634／0.676）、総残差 6.05〜6.07 nVrms（16.45〜16.46 bit）。10/25 の電極の DC 電流の直しの副作用で WN の W が +0.23 Ω になり、両側 1.54 Ω（片側 0.630／0.905）、総残差 6.08〜6.10 nVrms（16.45 bit）。10/25 夜に通路の上へ WN の Metal5 だけを戻して直した（5 回目のチップ、20de9559）：両側 1.32 Ω（片側 0.630／0.689）、総残差 6.05〜6.07 nVrms（16.45〜16.46 bit、10/24 と同じ）。10/26 の 6 回目は Cin の Via4 の分で両側 1.33 Ω（同じ 16.45〜16.46 bit）。両側 0.7 Ω（16.50 bit）までの残りは、チョッパの縞、入力対のゲートのポリ、チョッパの背骨と帯で、AFE の配置の変更が要る。今回 rev は見送り、案と見込みを `gf180_afe_d6_fix_20261024.md` に残した |
 | （解決）AFE の偶数次の歪み（PEX、10/24：フルスケールの HD2 −70 dBc、HD4 −82 dBc。INP と ONI／OPI の結合が P 側だけ 617／526 fF） | 10/24 に E3 で直した：出力の幹線を移して遮蔽し、4 つの結合は 9 fF 以下（P／N の和の差 2.7 fF）、HD2 −113.8 dBc |

diff --git a/first_tapeout_eeg/documentation/gf180_viz_20261024.md b/first_tapeout_eeg/documentation/gf180_viz_20261024.md
@@ -92,7 +92,7 @@ gf180/tools/venv310/bin/python gf180/tapeout/viz/crossings_fig.py plot
   - 41（新しい図）：AFE の線形性の窓（`afe_window_fig.py`）。台（`afe_margin_map.py`）の AVDD に対するフルスケールの HD3 と、チップの通し（星）、台とチップの比べ（21 本）、余裕。窓の端の 2 本（ff 3.465 V、ss 3.45 V）が 12 時 52 分に終わったので仕上げた。表に、ss が −111 dBc に届く AVDD（3.394 V）と ff の PMOS 入力対の余裕（台）を足した。
   - 39（途中、描き直し）：ss での 100 µs のパルス（14 時 38 分に終わった）を足した。(e) の縦軸を ss のコモンモード（1.30 V から）が入るように広げ、ss の行に、typical の M 997 では ss は入力換算約 1.6 mV 残ることを書いた。ADC の範囲に戻る時刻は、ランの最後の 2 周期の間に範囲を出ていれば「戻らない」と書くようにした（ss が最後の点で戻ったように出ていた）。300 mV の 11 ms までが終わったら仕上げる。
   - 42（新しい図、途中）：AVDD と BOOST_TRIM に対する AFE の雑音（`afe_noise_avdd_fig.py`）。チップの配線込みの雑音の台（`afe_chip_noise.py` に `--avdd`、`--boost`、`--corner` を足した）で、角ごとの 3.40 V のトリムと typical のトリムを振った。typical の 2/2 は AVDD を上げると雑音が増え（3.45 V で 5.73 nVrms）、BTRIM_P を 4 以上にすると平ら。PMOS 入力対の余裕（動作点）との関係、予算の ENOB。typical 4/4 のチップの HD3（3.40、3.45 V）が終わったら仕上げる。
-  - 42（仕上げ）：typical の BTRIM_P 4 のチップの HD3 の 3 本（4/4 の 3.40 V と 3.45 V、4/2 の 3.40 V。21 時 37 分にそろった）を入れて仕上げた。4/2 は 3.40 V で −117.0 dBc で 2/2（−116.8 dBc）と同じ、4/4 は −115.6／−116.4 dBc。typical のトリムは 4/2 を勧める（11/18 に決める）。
+  - 42（仕上げ）：typical の BTRIM_P 4 のチップの HD3 の 3 本（4/4 の 3.40 V と 3.45 V、4/2 の 3.40 V。21 時 37 分にそろった）を入れて仕上げた。4/2 は 3.40 V で −117.0 dBc で 2/2（−116.8 dBc）と同じ、4/4 は −115.6／−116.4 dBc。typical のトリムは 4/2 を勧める（11/18 に AVDD をダイごとに合わせると決めたので、トリムも試験でダイごとに決める。4/2 はその出発点）。
   - 31（デジタル側）：12 回目の通しのチャンク 14 の写しで b1、b1iso、b2、b3 を回し（`digital_noise.py --chain r12`、11/16 の 3 時 49 分〜23 時 44 分）、通しのチャンクそのものを基準にして描いた。48 フレームの ADC の符号はどの組でも一致し、一定のずれは電極換算 0.64 nV 以下、周期ごとの残りは 0.27 nV rms 以下（`gf180_realistic_eval_20261028.md` の「デジタル側」）。
   - 31 がそろったので、この文書の図の参照を 10 回目から 12 回目に切り替えた（下の図とレイアウトの画像、読むときの注意の値、図 32 と 33 の説明。34〜42 の画像も足した）。
 - **11/17**：
@@ -100,7 +100,7 @@ gf180/tools/venv310/bin/python gf180/tapeout/viz/crossings_fig.py plot
   - 43（新しい図）：PDK にない係数への余裕（`margin_fig.py`）。DAC1 の素子のばらつきを仮の係数の 1〜8 倍にした 30 ダイの ENOB と、雑音なしの小さい入力での誤差（`enob_sine.py --margin mm`、`mmlow`）、入力抵抗の電圧係数に対する HD3 と ENOB（`--margin vc`）、オフセット DAC の MIM のばらつきに対する段と残差（20,000 ダイ）。どれも仮の値の 4 倍まで要求に影響しない。
   - 44（新しい図）：同相の除去と電極の不釣り合い（`cmrr_fig.py`）。1 kHz の同相 100 mV pk（体の動きは 97.5 mV pk）で、釣り合った電極は 105.4 dB、ELP に 51 kΩ ∥ 47 nF は 50.7 dB（脚の電流が電極のインピーダンスを流れる分とほぼ同じ）。脚 1 本から見た同相のアドミタンスの周波数特性（AFE だけのチョッパ込みの過渡と並べた）と、不釣り合いの大きさに対する CMRR（11/17 の版では 50 Hz は 1 kHz からの見込み）。11/18 に、終わった基準 2 本を差し引いて描き直した（1 kHz の値は同じ。不釣り合いは、解除までの大きな同相の容量が 47 nF に残す電荷の抜け（2.4 ms）も当てはめる）。11/18 の朝、50 Hz の 2 本（1 周期）で仕上げた：51 kΩ ∥ 47 nF で 54.2 dB（100 mV pk で電極換算 194 µV pk、フルスケールの 21 %）、釣り合いで 151 dB。上の段は 50 Hz の波形で、出力とシミュレーションのピンの差動が重なる。
 - **11/18**：
-  - 45（新しい図、途中の版）：電極に抵抗とコンデンサがあるときの起動（`electrode_start_fig.py`）。ELP に 51 kΩ ∥ 47 nF、300 mV。ピンの差動、ADC の入力、電極の電流（脚に保存した電荷から）、パルスと解除の拡大、ランの表。B（M 983、CHOP_EN を下げる）では AFE が解除で逆向きに飽和したまま残り、チップがピンを −349 mV へ引く（電極に 12.7 µA、ADC の入力 −1.80 V）。電極 100 Ω の 2 本（図 39 のパルスのランと CHOP_EN を下げるもの）は解除と同時に範囲に入り、電流は 54 µA。E、F（M 94、パルス 1 ms と 100 µs）と A（M 983、チョッパを動かす）が終わったら仕上げる。1 周期の平均ではピンのスパイク（約 0.4 µs）が 100 ns の格子に乗る位相で 62.5 µs の模様が出るので、8 周期で平均した
+  - 45（新しい図、途中の版）：電極に抵抗とコンデンサがあるときの起動（`electrode_start_fig.py`）。ELP に 51 kΩ ∥ 47 nF、300 mV。ピンの差動、ADC の入力、電極の電流（脚に保存した電荷から）、パルスと解除の拡大、ランの表。B（M 983、CHOP_EN を下げる）では AFE が解除で逆向きに飽和したまま残り、チップがピンを −349 mV へ引く（電極に 12.7 µA、ADC の入力 −1.80 V）。電極 100 Ω の 2 本（図 39 のパルスのランと CHOP_EN を下げるもの）は解除と同時に範囲に入り、電流は 54 µA。E、F（M 94、パルス 1 ms と 100 µs）が終わったら仕上げる。1 周期の平均ではピンのスパイク（約 0.4 µs）が 100 ns の格子に乗る位相で 62.5 µs の模様が出るので、8 周期で平均した
 
 ## 図の決まり
 

diff --git a/first_tapeout_eeg/documentation/gf180_verification_coverage_20261029.md b/first_tapeout_eeg/documentation/gf180_verification_coverage_20261029.md
@@ -58,7 +58,7 @@
 | AFE と ADC をつないで動く | 寄生込みの短い通し（70 µs）、電源投入からの通し | ▶ 実行中 | — |
 | MIM と抵抗の素子ごとのばらつき | 仮の係数（PDK にない）。11/17 に余裕を確かめた（図 43、`enob_sine.py --margin`、`margin_fig.py`）：DAC1 の素子は 8 倍でも ENOB が変わらず、オフセット DAC は 4 倍まで単調で運転中の窓の内側。ポリ抵抗の電圧係数の許容は vc2 で約 300 ppm/V² | ▶ | 係数そのものは実機で（フルスケールの HD3、DAC1 とオフセット DAC の段） |
 | レギュレータの雑音の出方（PSRR） | なし | ⚠ | 未着手 |
-| 電極をつないだときの性能 | 11/17〜：同相の除去と電極の不釣り合い（`cmrr.py`、`afe_startup.py` の `--cm`、`--zp`、`--zn`。`gf180_realistic_eval_20261028.md` の「同相の除去」、図 44）。1 kHz：釣り合った電極で 105.4 dB、ELP に 51 kΩ ∥ 47 nF で 50.7 dB（ほぼ全部が電極の側。11/18 に基準を差し引いて当てはめ直しても同じ）。脚 1 本 18.6 nS ∥ 138.5 pF（入力スイッチ 65.2 pF、Cin を通る分 63.6 pF）。解除までは約 795 pF。AFE_RST を上げているあいだは、チョッパが動いているとピンの差動が約 5.4 kΩ になり、電極のオフセットが電極のコンデンサを充電する（11/18。`afe_saturation.py --zp --chop-hold` で確かめている）。50 Hz（11/18、1 周期）：51 kΩ ∥ 47 nF で 54.2 dB（100 mV pk の同相で電極換算 194 µV pk。gmin の見かけを除くと 54.6 dB）、釣り合いで 151 dB。出力とピンの差動が 0.04 % で合う（ほぼ全部が電極の側）。CMRR のためにチップを直す必要はない。11/18 の朝：DAC で打ち消したオフセットには、解除のあとも約 5.4 kΩ がかかり、電極にオフセット / 5.4 kΩ の DC 電流が流れる（図 27 のランで 10〜300 mV とも 5.36〜5.44 kΩ。10/23 の要求、電極 1 本 1 nA 以下を外れる）。電極に抵抗 R_e があると、ピンに届くオフセットは 5.4 kΩ / (5.4 kΩ + R_e) 倍。今回 rev ではチップを直さず、限界として記録する（11/18）。電極込みの起動（図 45）：B（51 kΩ ∥ 47 nF、M 983、CHOP_EN を下げる）は、合わない M で AFE が逆向きに飽和したまま残り、チップがピンを −349 mV へ引く（電極に 12.7 µA） | ▶ E、F、A を回している | 濡れた電極と乾いた電極のモデル、モンテカルロ、角はこのあと |
+| 電極をつないだときの性能 | 11/17〜：同相の除去と電極の不釣り合い（`cmrr.py`、`afe_startup.py` の `--cm`、`--zp`、`--zn`。`gf180_realistic_eval_20261028.md` の「同相の除去」、図 44）。1 kHz：釣り合った電極で 105.4 dB、ELP に 51 kΩ ∥ 47 nF で 50.7 dB（ほぼ全部が電極の側。11/18 に基準を差し引いて当てはめ直しても同じ）。脚 1 本 18.6 nS ∥ 138.5 pF（入力スイッチ 65.2 pF、Cin を通る分 63.6 pF）。解除までは約 795 pF。AFE_RST を上げているあいだは、チョッパが動いているとピンの差動が約 5.4 kΩ になり、電極のオフセットが電極のコンデンサを充電する（11/18。`afe_saturation.py --zp --chop-hold` で確かめている）。50 Hz（11/18、1 周期）：51 kΩ ∥ 47 nF で 54.2 dB（100 mV pk の同相で電極換算 194 µV pk。gmin の見かけを除くと 54.6 dB）、釣り合いで 151 dB。出力とピンの差動が 0.04 % で合う（ほぼ全部が電極の側）。CMRR のためにチップを直す必要はない。11/18 の朝：DAC で打ち消したオフセットには、解除のあとも約 5.4 kΩ がかかり、電極にオフセット / 5.4 kΩ の DC 電流が流れる（図 27 のランで 10〜300 mV とも 5.36〜5.44 kΩ。10/23 の要求、電極 1 本 1 nA 以下を外れる）。電極に抵抗 R_e があると、ピンに届くオフセットは 5.4 kΩ / (5.4 kΩ + R_e) 倍。今回 rev ではチップを直さず、限界として記録する（11/18）。電極込みの起動（図 45）：B（51 kΩ ∥ 47 nF、M 983、CHOP_EN を下げる）は、合わない M で AFE が逆向きに飽和したまま残り、チップがピンを −349 mV へ引く（電極に 12.7 µA） | ▶ E、F を回している | 濡れた電極と乾いた電極のモデル、モンテカルロ、角はこのあと |
 
 ## 5. デジタルが動く
 

diff --git a/first_tapeout_eeg/documentation/figures/gf180/r12_20261113/README.md b/first_tapeout_eeg/documentation/figures/gf180/r12_20261113/README.md
@@ -19,7 +19,7 @@
   - 図 38（角での AFE の解除）、図 39（電極オフセットがある最初の電源投入）、図 40（ADC の過負荷）、図 41（AFE の線形性の窓）は 11/16 に足した図。図 40（8 時 52 分）と図 38（9 時 31 分）は、回していた計算がそろったので描き直した。39 と 41 はまだ途中（回している計算があり、そろったら描き直す）。11 時 7〜9 分に終わった 100 µs のパルスと ±1 % の 2 本を入れて、39 と 41 を描き直した（39 は 4 段にして、パルスの中と図 27 との差を足した）。41 は 12 時 52 分に終わった窓の端の 2 本を入れて仕上げた。図 42（AFE の雑音：AVDD と BOOST_TRIM）も 11/16 に足した図で、typical の BTRIM_P 4 のチップの HD3 の 3 本（21 時 37 分にそろった）を入れて仕上げた。39 は、300 mV をパルスなしで 11 ms まで回したラン（11/17 の 2 時 30 分に終わった）を入れて仕上げた。
   - 図 43（PDK にない係数への余裕）は 11/17 に足した図。
   - 図 44（同相の除去と電極の不釣り合い）は 11/17 に途中の版（1 kHz の 2 本）を足し、11/18 の朝に 50 Hz の 2 本（26 ms まで、1 周期）が終わってから仕上げた。上の段の時間の波形は 50 Hz。
-  - 図 45（電極に抵抗とコンデンサがあるときの起動）は 11/18 に途中の版（B と、電極 100 Ω の 2 本）を足した。E、F、A が終わったら仕上げる。
+  - 図 45（電極に抵抗とコンデンサがあるときの起動）は 11/18 に途中の版（B と、電極 100 Ω の 2 本）を足した。E、F が終わったら仕上げる。
 - **12 回目で変わっていないものは、最後に変わった版の結果を使った**（変わっていないことは XOR かデッキの比べで確かめた）。
   - adc_rdac、OTA、量子化器、eeg_bias、eeg_ref は 11 回目と同じなので、ブロックのモンテカルロ（図 29）とポリ抵抗のフリッカ（図 33）は 11 回目のもの。行動モデル（図 29）も 11 回目のブロックのモンテカルロから回した（`runs/adc_beh_mc_r11/`）。
   - 寄生込みの E2E（図 16〜18）の d4 と sch は、11 回目の実行の写し。回路図のデッキは版によらず、`pex_e2e.deck_text()` が 11 回目のものと 1 文字も違わず、読み込むファイルもその実行より前のまま（`runs/e2e_r12/README.md`）。

diff --git a/first_tapeout_eeg/documentation/gf180_electrode_dc_20261022.md b/first_tapeout_eeg/documentation/gf180_electrode_dc_20261022.md
@@ -192,7 +192,7 @@
   - 固定スイッチ（最大 96 µm）、範囲 TG。
   - 仮想接地に付く配線の容量と漏れ電流。
 - **電極のインピーダンスが高いとき**：電極側の電荷の時定数が 65 ns から外れるほど、切り替え直後の振れが大きくなる。チョッパ周波数での電極の抵抗が 100 Ω を大きく超える場合は、電極込みの評価で範囲を決める。
-- **CMRR** は 11/17 から評価している（`gf180_realistic_eval_20261028.md` の「同相の除去」、図 44）。1 kHz で、釣り合った電極で 105.4 dB、51 kΩ ∥ 47 nF の不釣り合いで 50.7 dB（ほぼ全部が電極の側）。50 Hz（11/18）では 51 kΩ ∥ 47 nF で 54.2 dB（体の 100 mV pk の同相で電極換算 194 µV pk、フルスケールの 21 %）、釣り合いで 151 dB。**オフセットがあるときの電極込みの起動**は、11/18 から回している（300 mV、ELP に 51 kΩ ∥ 47 nF。上の「使い方」の 3 の 11/18 の項、図 45。B は済み、E、F、A を回している）。
+- **CMRR** は 11/17 から評価している（`gf180_realistic_eval_20261028.md` の「同相の除去」、図 44）。1 kHz で、釣り合った電極で 105.4 dB、51 kΩ ∥ 47 nF の不釣り合いで 50.7 dB（ほぼ全部が電極の側）。50 Hz（11/18）では 51 kΩ ∥ 47 nF で 54.2 dB（体の 100 mV pk の同相で電極換算 194 µV pk、フルスケールの 21 %）、釣り合いで 151 dB。**オフセットがあるときの電極込みの起動**は、11/18 から回している（300 mV、ELP に 51 kΩ ∥ 47 nF。上の「使い方」の 3 の 11/18 の項、図 45。B は済み、E、F を回している）。
 
 ## 10/22 の追記：ブランキングによる雑音の折り返し
 
